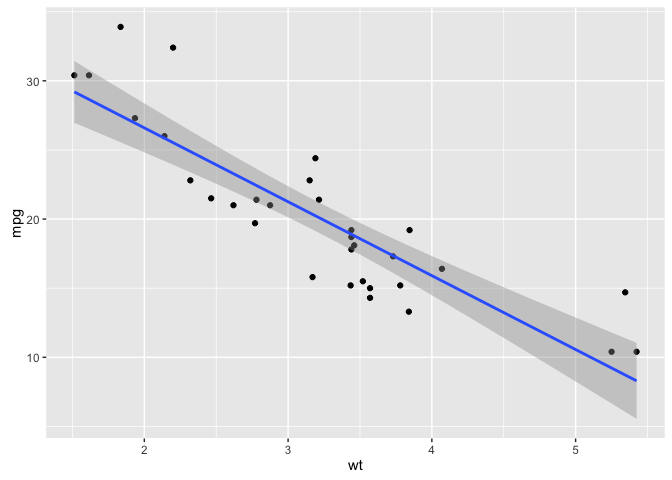
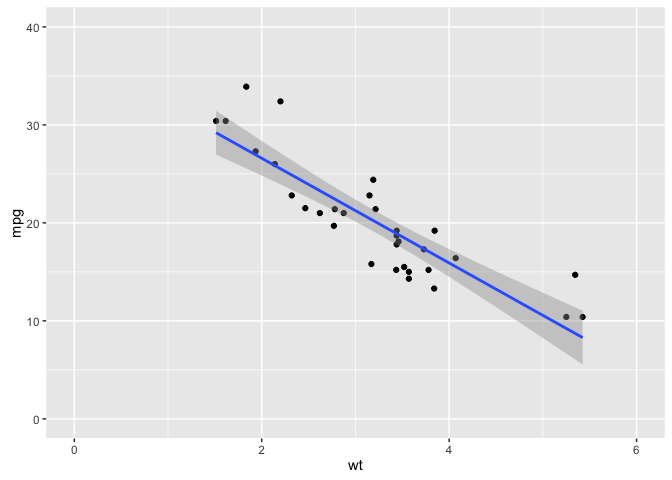
updated images in readme

diff --git a/README.md b/README.md
@@ -62,7 +62,8 @@ data(mtcars)
 library("ggplot2")
 ggplot(mtcars, aes(x = wt, y = mpg)) + 
   geom_point() + 
-  geom_smooth(method = 'lm')
+  geom_smooth(method = 'lm') + 
+  expand_limits(x = c(0, 6), y = c(0, 40))
 ```
 
 ![](inst/imgs/README-unnamed-chunk-3-1.png)
@@ -77,7 +78,9 @@ mask <- sample(c(rep(x = TRUE, times = n_train), rep(x = FALSE, times = n_test))
 mtcars[, "Type"] <- ifelse(mask, "Train", "Test")
 train_mtcars <- mtcars[mask, ]
 test_mtcars <- mtcars[!mask, ]
-ggplot(mtcars, aes(x = wt, y = mpg, color = Type)) + geom_point()
+ggplot(mtcars, aes(x = wt, y = mpg, color = Type)) + 
+  geom_point() + 
+  expand_limits(x = c(0, 6), y = c(0, 40))
 ```
 
 ![](inst/imgs/README-unnamed-chunk-4-1.png)
